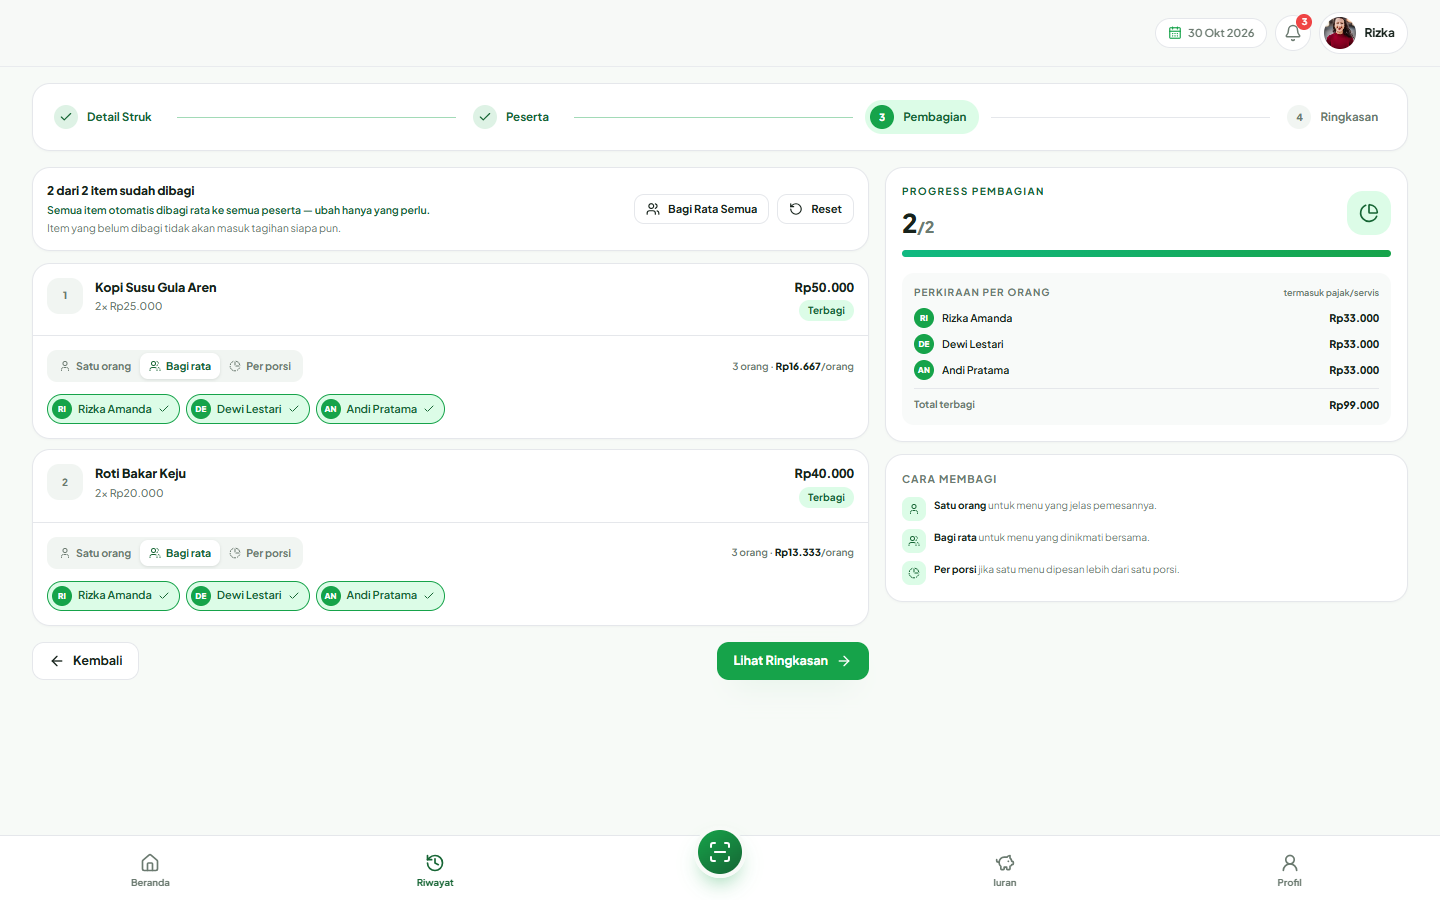
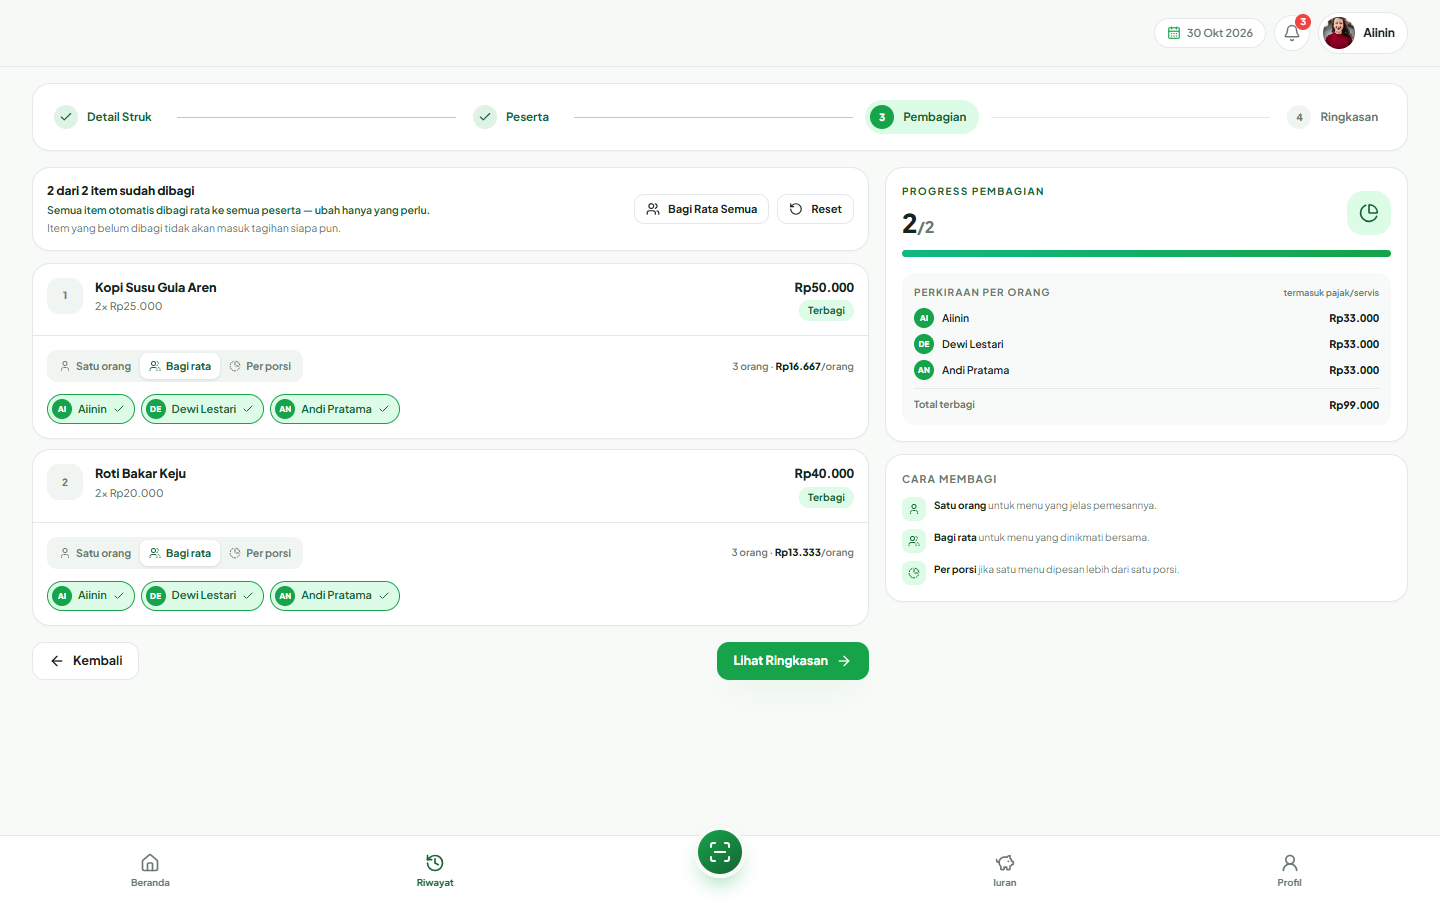
Use "Aiinin" as the demo identity
- DemoSeeder: email demo menjadi aiinin@patunganberes.test, owner bernama "Aiinin"
- Peserta default bill baru dan placeholder tidak lagi memakai "Rizka"
- 8 screenshot README diperbarui

diff --git a/laravel/database/seeders/DemoSeeder.php b/laravel/database/seeders/DemoSeeder.php
@@ -9,7 +9,7 @@ use Illuminate\Database\Seeder;
 
 class DemoSeeder extends Seeder
 {
-    public const EMAIL = 'rizka@patunganberes.test';
+    public const EMAIL = 'aiinin@patunganberes.test';
 
     public const PASSWORD = 'password';
 
@@ -26,7 +26,7 @@ class DemoSeeder extends Seeder
         $calc = app(SplitBillCalculator::class);
 
         $user = User::create([
-            'name' => 'Rizka Amanda',
+            'name' => 'Aiinin',
             'email' => self::EMAIL,
             'password' => self::PASSWORD,
             'phone' => '081234567890',
@@ -39,7 +39,7 @@ class DemoSeeder extends Seeder
         $user->bankAccounts()->create([
             'bank' => 'BCA',
             'account_number' => '8830192841',
-            'account_holder' => 'Rizka Amanda',
+            'account_holder' => 'Aiinin',
             'is_default' => true,
         ]);
 
@@ -78,7 +78,7 @@ class DemoSeeder extends Seeder
         }
 
         $people = [
-            ['Rizka Amanda', true],
+            ['Aiinin', true],
             ['Budi Santoso', false],
             ['Citra Dewi', false],
         ];
@@ -161,7 +161,7 @@ class DemoSeeder extends Seeder
             ]);
         }
 
-        foreach ([['Rizka Amanda', true], ['Dewi Lestari', false], ['Andi Pratama', false]] as $i => [$name, $isOwner]) {
+        foreach ([['Aiinin', true], ['Dewi Lestari', false], ['Andi Pratama', false]] as $i => [$name, $isOwner]) {
             $bill2->participants()->create([
                 'name' => $name,
                 'is_current_user' => $isOwner,
@@ -182,12 +182,12 @@ class DemoSeeder extends Seeder
             'category' => 'kas_kelas',
             'bank_name' => 'BCA',
             'account_number' => '8830192841',
-            'account_holder' => 'Rizka Amanda',
+            'account_holder' => 'Aiinin',
             'status' => 'active',
         ]);
 
         foreach ([
-            ['Rizka Amanda', 100000, 'paid'],
+            ['Aiinin', 100000, 'paid'],
             ['Budi Santoso', 100000, 'waiting_verification'],
             ['Citra Dewi', 100000, 'waiting_verification'],
             ['Dewi Lestari', 100000, 'paid'],

diff --git a/laravel/resources/views/guest/receipt.blade.php b/laravel/resources/views/guest/receipt.blade.php
@@ -128,7 +128,7 @@
                         </div>
                         <div>
                             <label class="label" for="notes">Catatan (opsional)</label>
-                            <input class="input" type="text" id="notes" name="notes" value="{{ old('notes') }}" placeholder="contoh: transfer via BCA Mobile a.n Rizka">
+                            <input class="input" type="text" id="notes" name="notes" value="{{ old('notes') }}" placeholder="contoh: transfer via BCA Mobile a.n Budi">
                         </div>
                         <div>
                             <label class="label" for="proof">Upload Ulang Bukti (opsional)</label>
@@ -166,7 +166,7 @@
                         </div>
                         <div>
                             <label class="label" for="notes">Catatan (opsional)</label>
-                            <input class="input" type="text" id="notes" name="notes" value="{{ old('notes') }}" placeholder="contoh: transfer via BCA Mobile a.n Rizka">
+                            <input class="input" type="text" id="notes" name="notes" value="{{ old('notes') }}" placeholder="contoh: transfer via BCA Mobile a.n Budi">
                         </div>
                         <div>
                             <label class="label" for="proof">Bukti Transfer (opsional)</label>

diff --git a/laravel/app/Http/Controllers/SplitBillController.php b/laravel/app/Http/Controllers/SplitBillController.php
@@ -615,7 +615,7 @@ class SplitBillController extends Controller
             'sort_order' => 0,
         ]);
 
-        foreach ([['Rizka Amanda', '081298765432'], ['Dinda Kirana', '081345678901']] as $index => [$name, $phone]) {
+        foreach ([['Budi Santoso', '081298765432'], ['Dinda Kirana', '081345678901']] as $index => [$name, $phone]) {
             $bill->participants()->create([
                 'name' => $name,
                 'initials' => participant_initials($name),
@@ -697,7 +697,7 @@ class SplitBillController extends Controller
             'sort_order' => 0,
         ]);
 
-        foreach ([['Rizka Amanda', '081298765432'], ['Dinda Kirana', '081345678901']] as $index => [$name, $phone]) {
+        foreach ([['Budi Santoso', '081298765432'], ['Dinda Kirana', '081345678901']] as $index => [$name, $phone]) {
             $bill->participants()->create([
                 'name' => $name,
                 'initials' => participant_initials($name),

diff --git a/laravel/tests/Feature/GuestReceiptTest.php b/laravel/tests/Feature/GuestReceiptTest.php
@@ -27,12 +27,12 @@ class GuestReceiptTest extends TestCase
             'total_price' => 25000,
         ]);
 
-        $participant = $bill->participants()->create(['name' => 'Rizka Amanda']);
+        $participant = $bill->participants()->create(['name' => 'Budi Santoso']);
 
         $this->get(route('guest.receipt', [$bill->code, $participant->public_token]))
             ->assertOk()
             ->assertSee('Struk Split Bill Personal')
-            ->assertSee('Rizka Amanda');
+            ->assertSee('Budi Santoso');
     }
 
     public function test_an_unknown_token_returns_not_found(): void

diff --git a/laravel/tests/Feature/SplitBillLifecycleTest.php b/laravel/tests/Feature/SplitBillLifecycleTest.php
@@ -47,7 +47,7 @@ class SplitBillLifecycleTest extends TestCase
             'date' => now()->toDateString(),
             'participants' => [
                 ['id' => $owner->id, 'name' => $owner->name, 'is_current_user' => 1],
-                ['id' => $friend->id, 'name' => 'Rizka Amanda', 'is_current_user' => 0],
+                ['id' => $friend->id, 'name' => 'Budi Santoso', 'is_current_user' => 0],
             ],
         ])->assertRedirect(route('split-bills.allocation', $bill));
 

diff --git a/laravel/tests/Unit/SplitBillCalculatorTest.php b/laravel/tests/Unit/SplitBillCalculatorTest.php
@@ -24,7 +24,7 @@ class SplitBillCalculatorTest extends TestCase
             ],
             'participants' => [
                 ['id' => 1, 'name' => 'Aiinin'],
-                ['id' => 2, 'name' => 'Rizka'],
+                ['id' => 2, 'name' => 'Budi'],
             ],
             'allocations' => [
                 ['item_id' => 1, 'type' => 'single', 'single_participant_id' => 1],

diff --git a/README.md b/README.md
@@ -102,7 +102,7 @@ php artisan migrate --seed
 
 | Email | Kata sandi |
 | --- | --- |
-| `rizka@patunganberes.test` | `password` |
+| `aiinin@patunganberes.test` | `password` |
 
 Akun tersebut berisi **2 split bill** (satu sudah dibagikan & punya pembayaran menunggu verifikasi, satu masih draft di tengah wizard) dan **1 iuran** dengan beberapa setoran. Seeder-nya idempoten (aman dijalankan berulang) dan boleh dilewati sepenuhnya bila kamu ingin memulai dari aplikasi kosong.
 
